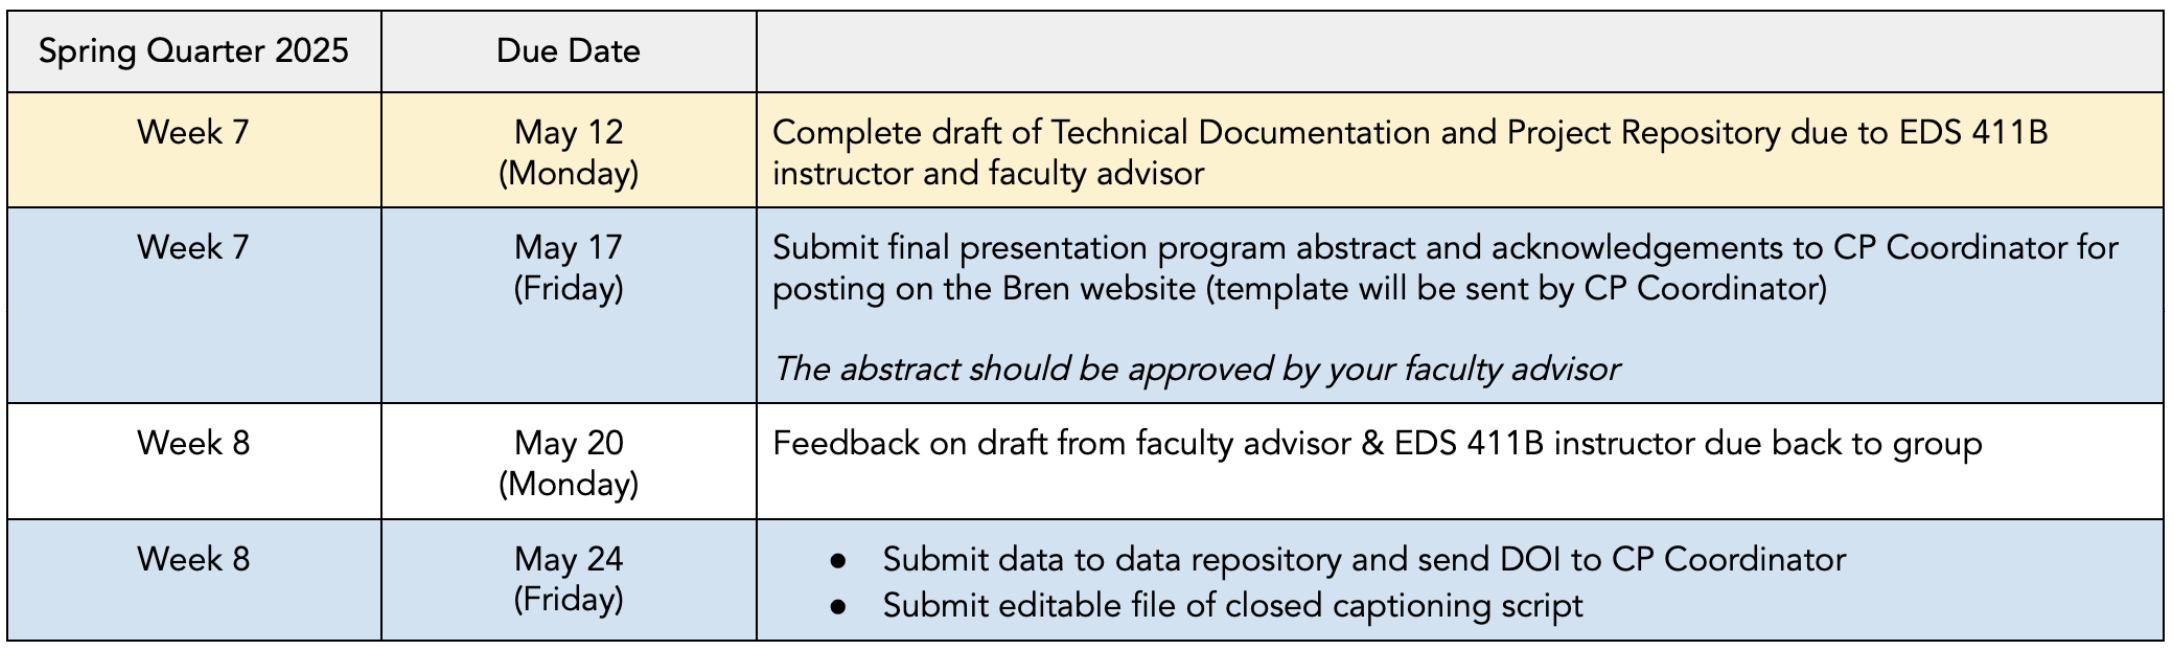
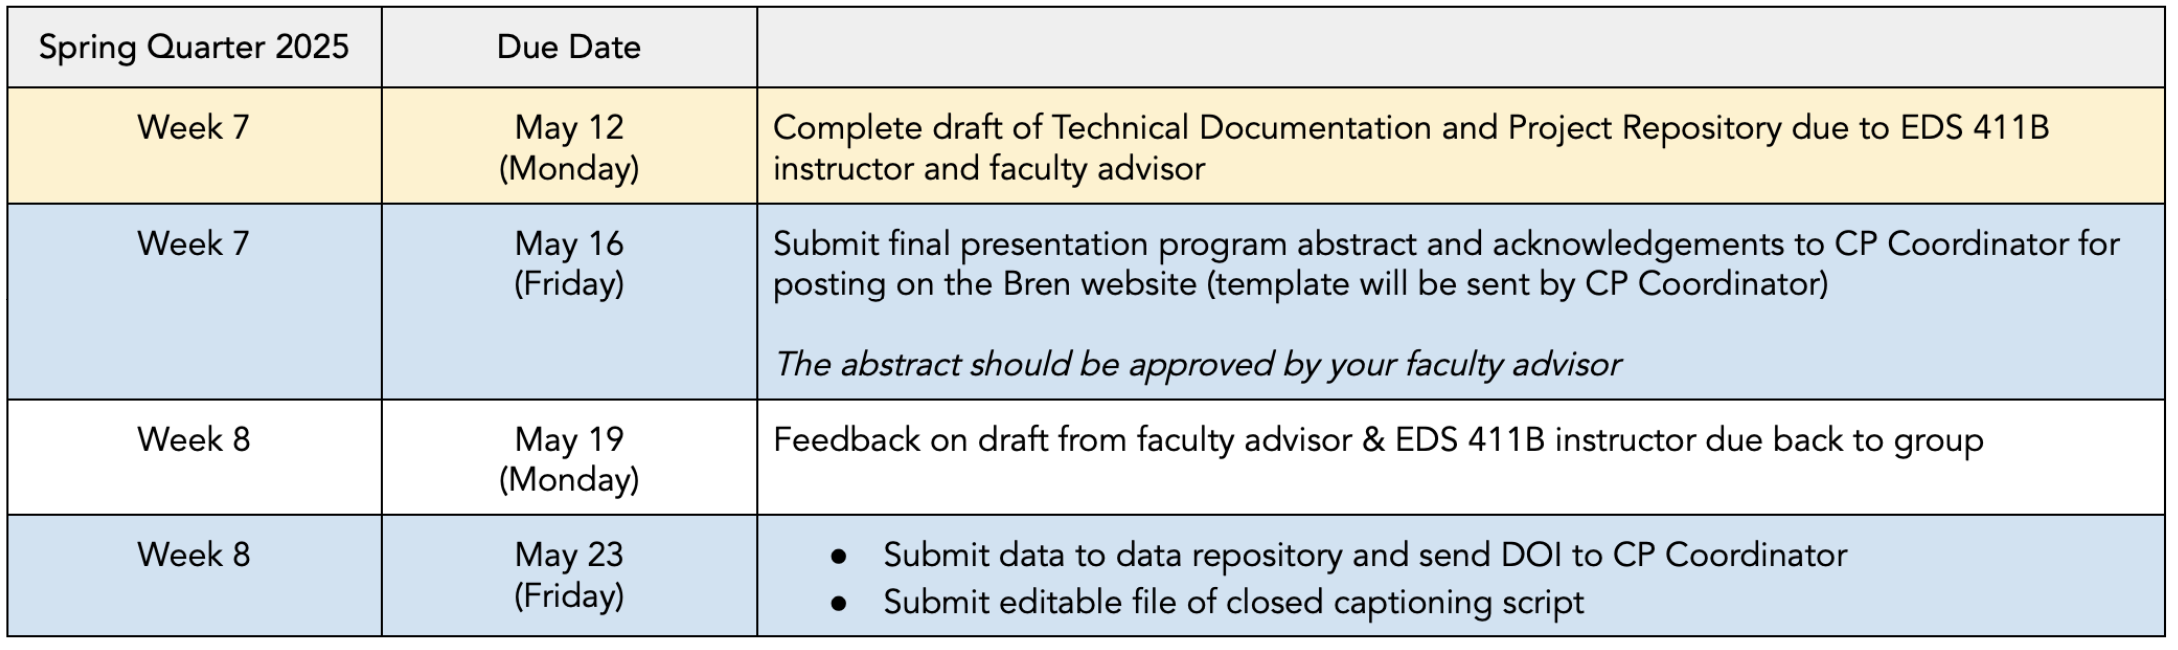
Complete week 6 draft

diff --git a/docs/411b_spring/411b_week6.html b/docs/411b_spring/411b_week6.html
@@ -7,7 +7,7 @@
 <meta name="viewport" content="width=device-width, initial-scale=1.0, user-scalable=yes">
 
 
-<title>week6 – EDS 411</title>
+<title>b_week6 – EDS 411</title>
 <style>
 code{white-space: pre-wrap;}
 span.smallcaps{font-variant: small-caps;}
@@ -198,13 +198,14 @@ ul.task-list li input[type="checkbox"] {
   <ul class="collapse">
   <li><a href="#materials" id="toc-materials" class="nav-link" data-scroll-target="#materials">Materials</a></li>
   <li><a href="#schedule" id="toc-schedule" class="nav-link" data-scroll-target="#schedule">Schedule</a></li>
-  <li><a href="#upcoming-capstone-deadlines" id="toc-upcoming-capstone-deadlines" class="nav-link" data-scroll-target="#upcoming-capstone-deadlines">Upcoming capstone deadlines</a></li>
-  <li><a href="#to-do-by-next-week" id="toc-to-do-by-next-week" class="nav-link" data-scroll-target="#to-do-by-next-week">To do by next week</a>
+  <li><a href="#recent-upcoming-deadlines" id="toc-recent-upcoming-deadlines" class="nav-link" data-scroll-target="#recent-upcoming-deadlines">Recent &amp; upcoming deadlines</a></li>
+  <li><a href="#to-do" id="toc-to-do" class="nav-link" data-scroll-target="#to-do">To do</a>
   <ul class="collapse">
-  <li><a href="#prepare-faculty-review-mock-presentation" id="toc-prepare-faculty-review-mock-presentation" class="nav-link" data-scroll-target="#prepare-faculty-review-mock-presentation">💬 Prepare faculty review mock presentation</a></li>
-  <li><a href="#update-dip" id="toc-update-dip" class="nav-link" data-scroll-target="#update-dip">📝 Update DIP</a></li>
+  <li><a href="#submit-complete-draft-of-td-and-project-repository" id="toc-submit-complete-draft-of-td-and-project-repository" class="nav-link" data-scroll-target="#submit-complete-draft-of-td-and-project-repository">📥 Submit complete draft of TD and project repository</a></li>
+  <li><a href="#prepare-final-presentation-mock-presentation" id="toc-prepare-final-presentation-mock-presentation" class="nav-link" data-scroll-target="#prepare-final-presentation-mock-presentation">🎤 Prepare final presentation mock presentation</a></li>
+  <li><a href="#submit-final-abstract-and-acknowledgements" id="toc-submit-final-abstract-and-acknowledgements" class="nav-link" data-scroll-target="#submit-final-abstract-and-acknowledgements">📝 Submit final abstract and acknowledgements</a></li>
   </ul></li>
-  <li><a href="#next-class-schedule" id="toc-next-class-schedule" class="nav-link" data-scroll-target="#next-class-schedule">Next class schedule</a></li>
+  <li><a href="#schedule-for-next-class" id="toc-schedule-for-next-class" class="nav-link" data-scroll-target="#schedule-for-next-class">Schedule for next class</a></li>
   </ul></li>
   </ul>
 </nav>
@@ -219,56 +220,88 @@ ul.task-list li input[type="checkbox"] {
 <h1>Week 6</h1>
 <section id="materials" class="level2">
 <h2 class="anchored" data-anchor-id="materials">Materials</h2>
-<p>📕 <a href="https://docs.google.com/presentation/d/1VxwF1LOY-5_-O-npwgSPTzZr9W8pro8UhmJbrvNsZwQ/edit?usp=sharing">Class slides</a></p>
-<p>📗 <a href="https://docs.google.com/presentation/d/1qYm7QCg1T05E8DFLZGTb2JkCVnazUEZ-5pxDRidLuuo/edit#slide=id.ge6b7f452cd_0_6982">Faculty Reviews presentation slides</a></p>
-<p>📘 <a href="https://docs.google.com/presentation/d/1rMpHTbqVPNEDBZc_o8asS2wf_RsBU7IXkBNN91qx2SA/edit?usp=sharing">Style guidelines for your Faculty Review presentation</a></p>
-<p>📙 <a href="https://docs.google.com/presentation/d/1ddl9cCrWf8AL0adNmq1y8_WEeAxIyo_RlBnUlTXPqpw/edit?usp=sharing">Ten Ways to Improve Presentations - Dr.&nbsp;Alex Phillips</a></p>
-<p>📖 <a href="https://drive.google.com/file/d/1qftu6sNqHeiv0p5K2xhfV8rfdc14oOk_/view?usp=share_link">Capstone Guidelines</a></p>
+<p>📕 <a href="">Class Slides</a></p>
+<p>📗 <a href="">Faculty Review Logistics Slides</a></p>
+<p>🎥 (1)<a href="https://vimeo.com/brenucsb/review/971009759/a05aa59467">MEDS final presentation recording</a> - Improving Access to Fish Consumption Advisories and Maintaining Confidence in California’s Healthy Seafood Products. <a href="https://bren.ucsb.edu/projects/improving-access-fish-consumption-advisories-and-maintaining-confidence-californias">Project Website</a></p>
+<p>🎥 (2)<a href="https://vimeo.com/brenucsb/review/971010502/888fdbeee9">MEDS final presentation recording</a> - Identifying Priority Survey Sites for Early-Season Milkweed Conservation <a href="https://bren.ucsb.edu/projects/identifying-priority-survey-sites-early-season-milkweed-conservation">Project Website</a></p>
+<p>💭 <a href="https://docs.google.com/presentation/d/1GFxVZH9zdJRviDavUqVE1Kt3kw43rTosD-5ygOELcRw/edit?usp=sharing">In-class Team Reflections</a></p>
 </section>
 <section id="schedule" class="level2">
 <h2 class="anchored" data-anchor-id="schedule">Schedule</h2>
-<p>1:00 - 1:10 : Questions, check-in, &amp; upcoming assignments</p>
-<p>1:10 - 1:55 : Flash presentations</p>
-<p>1:55 - 2:00: BREAK</p>
-<p>2:00 - 3:30: Public Speaking Workshop - Dr.&nbsp;Alex Phillips, Asst. Teaching Professor</p>
-<p>3:30 - 3:35: BREAK</p>
-<p>3:35 - 4:00: Faculty Review Logistics - Jamie Montgomery, MEDS Coordinator</p>
+<p>1:00 - 1:05: Questions, Check-in, Upcoming Assignments</p>
+<p>1:05 - 1:35: Faculty Review Logistics - Sam Shanny-Csik</p>
+<p>1:35 - 2:00: 2023 MEDS capstone final presentation screening</p>
+<p>1:50 - 2:00: Break</p>
+<p>2:00 - 2:50: Dedicated work time &amp; meetings with teams</p>
+<p>2:50 - 2:00: Break</p>
+<p>3:00 - 3:50: Dedicated work time &amp; meetings with teams</p>
+<p>3:50 - 4:00: Team Reflection</p>
 </section>
-<section id="upcoming-capstone-deadlines" class="level2">
-<h2 class="anchored" data-anchor-id="upcoming-capstone-deadlines">Upcoming capstone deadlines</h2>
-<p><img src="../411a_winter/images/411a_2025_deadlines3.png" class="img-fluid"></p>
+<section id="recent-upcoming-deadlines" class="level2">
+<h2 class="anchored" data-anchor-id="recent-upcoming-deadlines">Recent &amp; upcoming deadlines</h2>
+<p><img src="../411b_spring/images/411b_2025_deadlines3.png" class="img-fluid"></p>
 </section>
-<section id="to-do-by-next-week" class="level2">
-<h2 class="anchored" data-anchor-id="to-do-by-next-week">To do by next week</h2>
-<section id="prepare-faculty-review-mock-presentation" class="level3">
-<h3 class="anchored" data-anchor-id="prepare-faculty-review-mock-presentation">💬 Prepare faculty review mock presentation</h3>
-<ol type="1">
-<li><p>Read the <a href="https://docs.google.com/presentation/d/1qYm7QCg1T05E8DFLZGTb2JkCVnazUEZ-5pxDRidLuuo/edit#slide=id.ge6b7f452cd_0_6982">rubric for faculty reviews</a>.</p></li>
-<li><p>💥Read these <a href="https://docs.google.com/presentation/d/1rMpHTbqVPNEDBZc_o8asS2wf_RsBU7IXkBNN91qx2SA/edit?usp=sharing">guidelines for your presentation</a>💥</p></li>
-<li><p>Decide with your team what preliminary results, progress, or prototype you will include in your presentation</p></li>
-<li><p>Put together a complete presentation deck following <a href="(https://docs.google.com/presentation/d/1ddl9cCrWf8AL0adNmq1y8_WEeAxIyo_RlBnUlTXPqpw/edit?usp=sharing)">Alex’s presentation, point 6</a>. It’s ok if you add stand-in figures for prototypes or preliminary results for now. Focus on the story line.</p></li>
-<li><p>Discuss your draft slides with your faculty advisor.</p></li>
-<li><p>Decide who will be presenting in faculty review (and who in public final presentation). Every person in the team should be ready to present if needed.</p></li>
-<li><p>Add your draft to our <a href="https://drive.google.com/drive/folders/1iJWmncW70KHbPyDfCPQraPg6rOcis75m?usp=share_link">shared drive</a> and be ready to do a formal mock presentation next week!</p></li>
-</ol>
-<p><br></p>
-</section>
-<section id="update-dip" class="level3">
-<h3 class="anchored" data-anchor-id="update-dip">📝 Update DIP</h3>
-<p>If you have already received feedback from your advisor:</p>
+<section id="to-do" class="level2">
+<h2 class="anchored" data-anchor-id="to-do">To do</h2>
+<section id="submit-complete-draft-of-td-and-project-repository" class="level3">
+<h3 class="anchored" data-anchor-id="submit-complete-draft-of-td-and-project-repository">📥 Submit complete draft of TD and project repository</h3>
+<p><strong>When? Due on Monday, May 12 at 5 PM.</strong></p>
+<p><strong>How? Send links via email to your advisor and casptone instructor.</strong></p>
 <ul>
-<li>discuss feedback with your team</li>
-<li>start working on updating your draft</li>
-<li>contact advisors or clients for clarification and share suggestions, and reply to comments within the document as needed. Remember to always do your research and discuss with your team first!</li>
+<li>Incorporate the feedback you’ve received so far for your Technical Documentation and GitHub materials.</li>
+<li>Send an email to your advisor and casptone instructor with a link to you Google doc and a link to your project’s GitHub organization.</li>
+<li>Make the most out of this revision: it’s great to request specific feedback from your advisor! Is there any section you’d particularly like their input on? Let them know in your message. You can also tag us in comments inside your document.</li>
 </ul>
 </section>
+<section id="prepare-final-presentation-mock-presentation" class="level3">
+<h3 class="anchored" data-anchor-id="prepare-final-presentation-mock-presentation">🎤 Prepare final presentation mock presentation</h3>
+<p><strong>When? Due by next class Wednesday, May 14.</strong></p>
+<p><strong>How? Add slides to <a href="https://drive.google.com/drive/folders/1Tgh93ucbzfrmzLblkZRRHHVfuLDwvhMS?usp=share_link">shared drive</a>.</strong></p>
+<ol type="1">
+<li>Decide who will be presenting in the final public presentation. Remember every person in the team should be ready to present if needed.</li>
+<li>Review the <a href="">guidelines for your presentation</a> covered today</li>
+<li><strong>Prepare a formal mock presentation (14 minutes long) for next Wednesday</strong></li>
+</ol>
+<ul>
+<li>Strongly suggest following <a href="https://docs.google.com/presentation/d/1ddl9cCrWf8AL0adNmq1y8_WEeAxIyo_RlBnUlTXPqpw/edit?usp=sharing">Alex’s presentation, point 6</a> to prepare your slides.</li>
+<li>The <a href="https://docs.google.com/presentation/d/1rMpHTbqVPNEDBZc_o8asS2wf_RsBU7IXkBNN91qx2SA/edit?usp=sharing">presentation design considerations from last quarter</a> still apply.</li>
+<li>It’s ok if you add stand-in figures for prototypes and results for now.</li>
+<li>Focus on the story line: this is a public presentation for a general audience.</li>
+</ul>
+<ol start="4" type="1">
+<li>Discuss your draft slides with your faculty advisor.</li>
+<li>Add your draft to our <a href="https://drive.google.com/drive/folders/1Tgh93ucbzfrmzLblkZRRHHVfuLDwvhMS?usp=share_link">shared drive</a> and be ready to do present next week!</li>
+</ol>
 </section>
-<section id="next-class-schedule" class="level2">
-<h2 class="anchored" data-anchor-id="next-class-schedule">Next class schedule</h2>
-<p>The class will be divided in two blocks from 1:00 to 2:30 and from 2:30 to 4:00. Each team will present and provide feedback to other teams as follows:</p>
-<p><img src="../411a_winter/images/presentations_blocks_1.png" class="img-fluid"></p>
-<p>Your theam should work on their project outside of their “presentation block”. The following rooms are reserved for you so you have a dedicated workspace during our usual class time. You’re welcome to use other places to work.</p>
-<p><img src="../411a_winter/images/presentations_rooms_1.png" class="img-fluid"></p>
+<section id="submit-final-abstract-and-acknowledgements" class="level3">
+<h3 class="anchored" data-anchor-id="submit-final-abstract-and-acknowledgements">📝 Submit final abstract and acknowledgements</h3>
+<p><strong>When? Due on Friday, May 16 at 5 PM.</strong></p>
+<p><strong>How? Send via email to Capstone Coordinator (Jamie Montgomery).</strong></p>
+<p>Abstracts and acknowledgments will be posted to the Bren website on your individual project pages and linked to the digital event program.</p>
+<p><strong>Abstract instructions:</strong></p>
+<ul>
+<li>The abstract is a one-paragraph brief summary of the Capstone Project, meant for a non-technical audience. The length of the abstract should be roughly 200 words. It can be the same as the one in your Technical Documentation.</li>
+<li>If your project title has changed, please include the new title in the abstract.</li>
+<li>Your advisor must approve the final abstract and any title updates before submission.</li>
+</ul>
+<p><strong>Acknowledgments instructions:</strong></p>
+<ul>
+<li>The acknowledgements should include advisors, professionals, organizations, funding sources, etc. that assisted the Capstone Project.</li>
+<li>Each acknowledgment should include the person’s name, title (if known), and affiliation or organization.</li>
+<li>You should obtain authorization from each person or party being acknowledged that their names can be included in the abstract.</li>
+<li>Be consistent when listing your acknowledgments. You can list several people within an organization. Alphabetical order is preferred if listing several people in the same grouping.
+<ul>
+<li>Example 1: Joan Dudney, Assistant Professor, Bren School</li>
+<li>Example 2: Bren School: Max Czapanskiy, Assistant Teaching Professor; Roland Geyer, Professor; Ruth Oliver, Assistant Professor</li>
+<li>Example 3: The Nature Conservancy: Kelly Easterday, Heather Gately, Moses Katkowski, Diego Ortiz, Dr.&nbsp;Mark Reynolds, and Dr.&nbsp;Rae Wynn-Grant</li>
+</ul></li>
+</ul>
+<p>Tip: You can view Bren faculty titles <a href="https://bren.ucsb.edu/people/faculty">here</a>. Also, if you have an email from someone, you may find their title in their email signature.</p>
+</section>
+</section>
+<section id="schedule-for-next-class" class="level2">
+<h2 class="anchored" data-anchor-id="schedule-for-next-class">Schedule for next class</h2>
+<p><img src="../images/411b_spring/mocks1.png" class="img-fluid"></p>
 
 
 </section>

diff --git a/docs/411a_winter/week5.html b/docs/411a_winter/week5.html
@@ -217,6 +217,7 @@ ul.task-list li input[type="checkbox"] {
 <section id="materials" class="level2">
 <h2 class="anchored" data-anchor-id="materials">Materials</h2>
 <p>📕 <a href="https://docs.google.com/presentation/d/1OGFMNllMTYuW2lktg_sdFyft2KUwvmrMdWd8Vk9TKok/edit?usp=sharing">Class slides</a></p>
+<p><a href="https://docs.google.com/presentation/d/1zs2Opt4iWC7UnthN0sNbNdPBdPYDsZoE/edit?usp=sharing&amp;ouid=111507336322611936333&amp;rtpof=true&amp;sd=true">📗 Resolving A Conflict slides - Dr.&nbsp;David Rasch, UCSB Associate Ombuds</a></p>
 <p>📖 <a href="https://drive.google.com/file/d/1qftu6sNqHeiv0p5K2xhfV8rfdc14oOk_/view?usp=share_link">Capstone Guidelines</a></p>
 </section>
 <section id="schedule" class="level2">

diff --git a/docs/411b_spring/411b_week5.html b/docs/411b_spring/411b_week5.html
@@ -168,6 +168,10 @@ ul.task-list li input[type="checkbox"] {
     <a class="dropdown-item" href="../411b_spring/411b_week5.html">
  <span class="dropdown-text">Week 5</span></a>
   </li>  
+        <li>
+    <a class="dropdown-item" href="../411b_spring/411b_week6.html">
+ <span class="dropdown-text">Week 6</span></a>
+  </li>  
     </ul>
   </li>
   <li class="nav-item">
